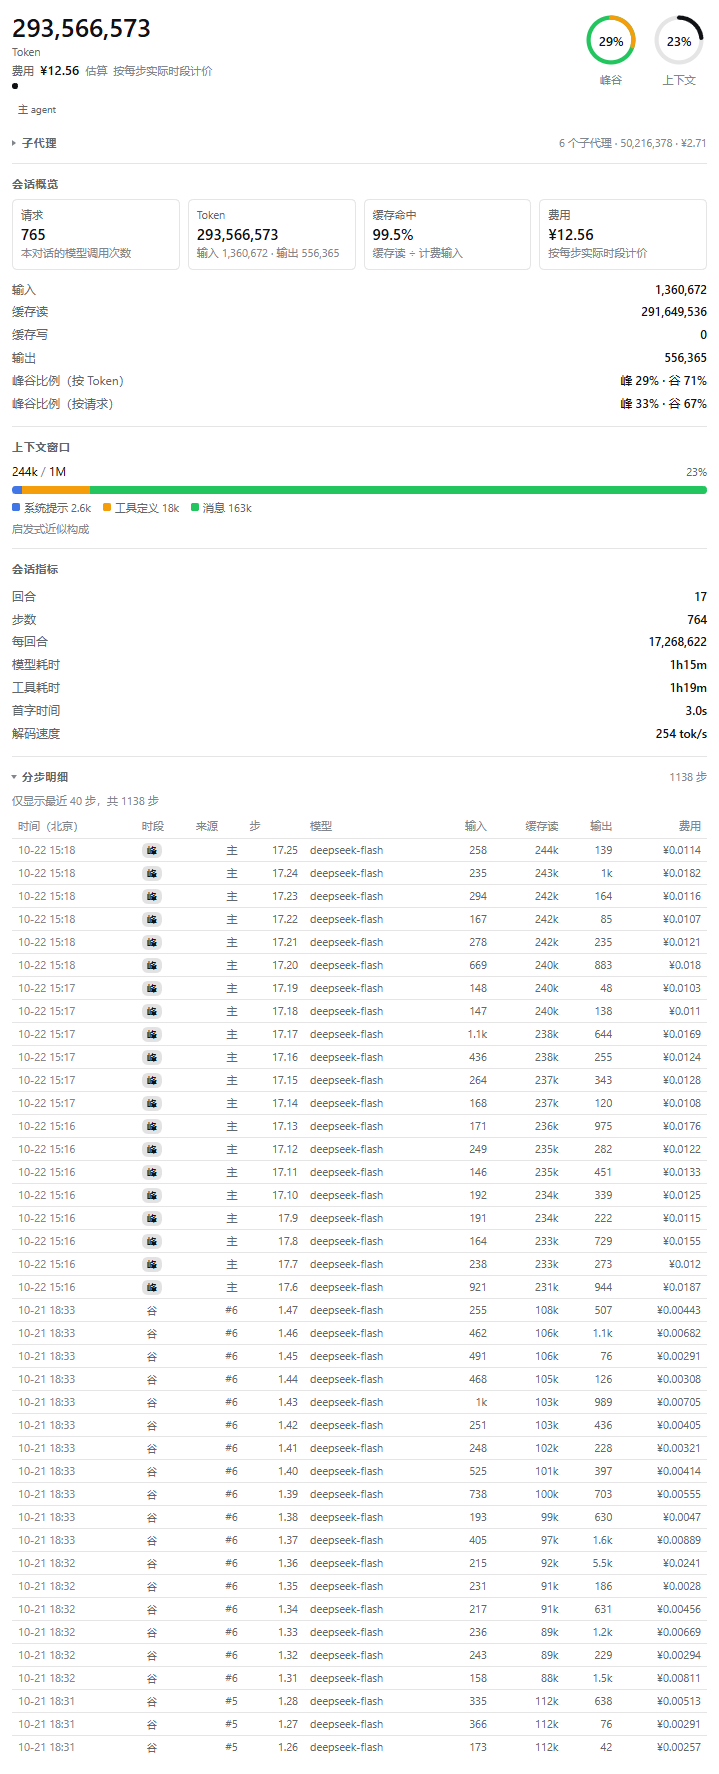
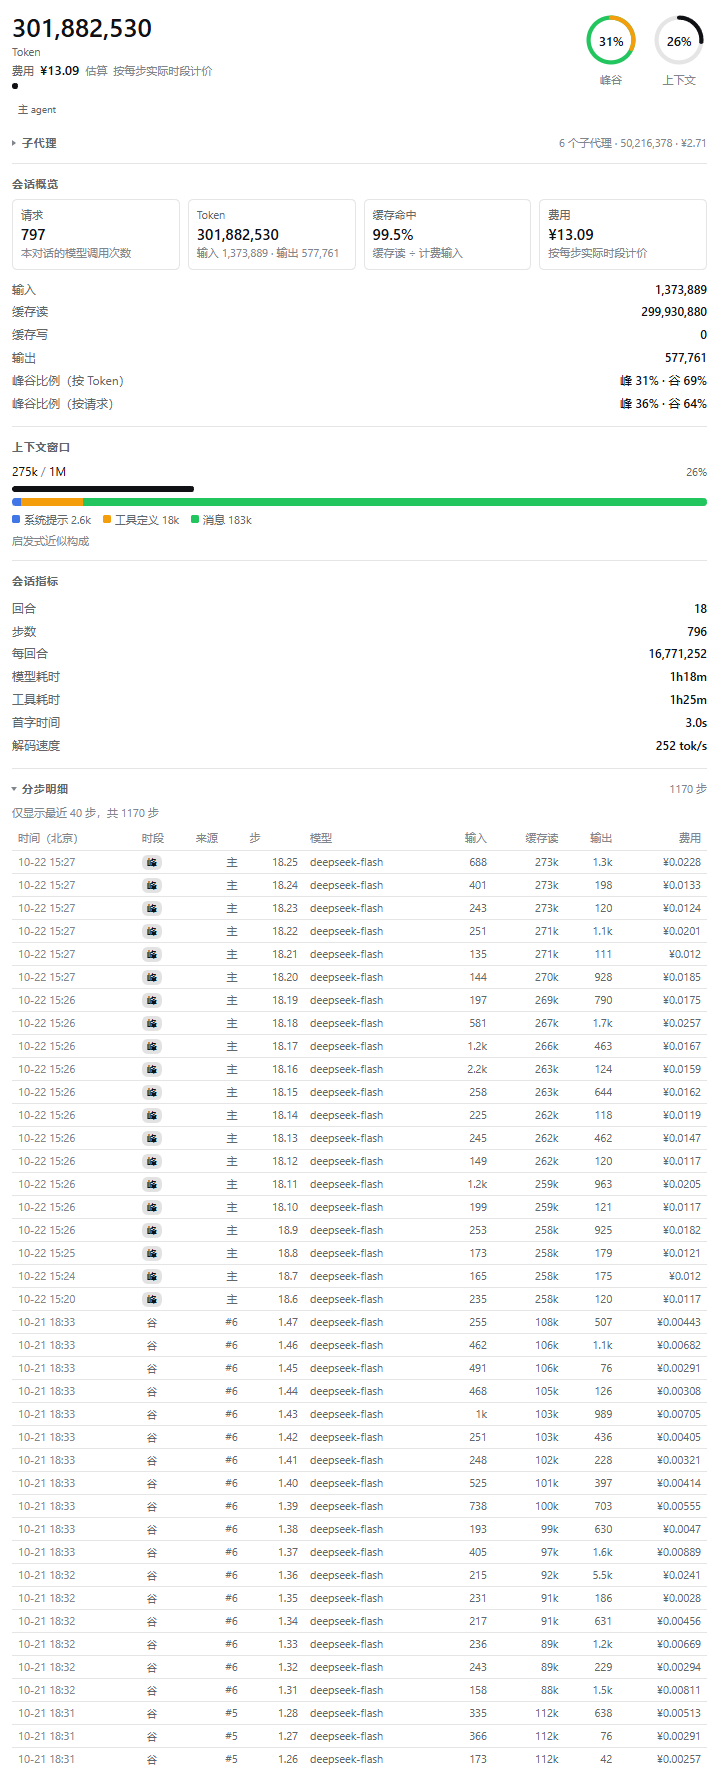
feat: context occupancy bar above the composition bar

diff --git a/dist/client.js b/dist/client.js
@@ -1,4 +1,4 @@
-/* dsh-usage-insights v0.8.4 — generated by scripts/build.mjs; do not edit. */
+/* dsh-usage-insights v0.8.5 — generated by scripts/build.mjs; do not edit. */
 window.__ModuleLoader__.load({
   id: "dsh-usage-insights",
   factory(require) {
@@ -1320,6 +1320,20 @@ var css2 = `
   overflow-wrap: anywhere;
 }
 
+.dsu-progress {
+  width: 100%;
+  height: 6px;
+  overflow: hidden;
+  border-radius: 999px;
+  background: var(--dsw-alias-bg-layer-2);
+}
+
+.dsu-progress-fill {
+  height: 100%;
+  border-radius: 999px;
+  background: var(--dsw-alias-brand-primary);
+}
+
 .dsu-compose {
   display: flex;
   width: 100%;
@@ -1783,6 +1797,10 @@ function Row(props) {
     /* @__PURE__ */ (0, import_jsx_runtime2.jsx)("span", { className: "dsu-row-value", children: props.value })
   ] });
 }
+function ProgressBar(props) {
+  const ratio = props.ratio === null ? 0 : Math.min(1, Math.max(0, props.ratio));
+  return /* @__PURE__ */ (0, import_jsx_runtime2.jsx)("div", { className: "dsu-progress", role: "img", "aria-label": formatPercent(ratio), children: /* @__PURE__ */ (0, import_jsx_runtime2.jsx)("div", { className: "dsu-progress-fill", style: { width: `${ratio * 100}%` } }) });
+}
 function CompositionBar(props) {
   const description = props.segments.map((segment) => `${segment.label} ${formatTokens(segment.tokens)}`).join(" \xB7 ");
   return /* @__PURE__ */ (0, import_jsx_runtime2.jsxs)(import_jsx_runtime2.Fragment, { children: [
@@ -2180,6 +2198,7 @@ function SessionPanel(props) {
         ] }),
         /* @__PURE__ */ (0, import_jsx_runtime4.jsx)("span", { className: "dsu-ctx-pct", children: contextLabel })
       ] }),
+      context.usedTokens !== null && /* @__PURE__ */ (0, import_jsx_runtime4.jsx)(ProgressBar, { ratio: context.ratio }),
       breakdown !== null && breakdownTotal > 0 && /* @__PURE__ */ (0, import_jsx_runtime4.jsx)(CompositionBar, { segments: [
         { part: "system", label: t("context.breakdown.system"), tokens: breakdown.systemTokens },
         { part: "tools", label: t("context.breakdown.tools"), tokens: breakdown.toolsTokens },

diff --git a/src/client/SessionPanel.tsx b/src/client/SessionPanel.tsx
@@ -18,7 +18,8 @@ import {
 } from '../lib/format'
 import { peakTokenShare } from '../lib/band-share.ts'
 import {
-  bandShareText, ChildAgentsTable, CompositionBar, InlineMessage, Ring, Row, Section, Stat, StepTable, StyleTag,
+  bandShareText, ChildAgentsTable, CompositionBar, InlineMessage, ProgressBar, Ring, Row, Section, Stat,
+  StepTable, StyleTag,
 } from './components'
 
 /**
@@ -202,6 +203,7 @@ export function SessionPanel(props: SessionPanelProps): JSX.Element {
                   <span className="dsu-ctx-pct">{contextLabel}</span>
                 </div>
               )}
+              {context.usedTokens !== null && <ProgressBar ratio={context.ratio} />}
               {breakdown !== null && breakdownTotal > 0 && (
                 <CompositionBar segments={[
                   { part: 'system', label: t('context.breakdown.system'), tokens: breakdown.systemTokens },

diff --git a/src/client/components.tsx b/src/client/components.tsx
@@ -77,6 +77,21 @@ export function Row(props: { label: string; value: ReactNode; hint?: string }): 
 }
 
 /**
+ * Single-value progress bar.
+ *
+ * @param props - ratio in [0, 1], or null for an unknown value.
+ * @returns the rendered bar.
+ */
+export function ProgressBar(props: { ratio: number | null }): JSX.Element {
+  const ratio = props.ratio === null ? 0 : Math.min(1, Math.max(0, props.ratio))
+  return (
+    <div className="dsu-progress" role="img" aria-label={formatPercent(ratio)}>
+      <div className="dsu-progress-fill" style={{ width: `${ratio * 100}%` }} />
+    </div>
+  )
+}
+
+/**
  * One segment of the context composition bar.
  */
 export interface CompositionSegment {

diff --git a/src/client/styles.ts b/src/client/styles.ts
@@ -322,6 +322,20 @@ export const css = `
   overflow-wrap: anywhere;
 }
 
+.dsu-progress {
+  width: 100%;
+  height: 6px;
+  overflow: hidden;
+  border-radius: 999px;
+  background: var(--dsw-alias-bg-layer-2);
+}
+
+.dsu-progress-fill {
+  height: 100%;
+  border-radius: 999px;
+  background: var(--dsw-alias-brand-primary);
+}
+
 .dsu-compose {
   display: flex;
   width: 100%;

diff --git a/README.md b/README.md
@@ -16,7 +16,7 @@
 
 - **会话概览**：请求数、Token 总量、输入 / 缓存读 / 缓存写 / 输出四桶、缓存命中率、费用，以及峰谷比例（按 Token 与按请求各一行）。
 - **精确 Token 数值**：除上下文窗口和分步明细外，所有 Token 数值都按千分位显示精确整数（如 `275,123,456`），不使用 `275M` 这类高位缩写。
-- **上下文窗口**：第一行显示已用 / 容量与占用百分比，第二行用三色堆叠条展示系统提示、工具定义、消息三段的近似构成，条下是带颜色的图例与各段数值。
+- **上下文窗口**：第一行显示已用 / 容量与占用百分比，第二行是一条按占用比例填充的横条，第三行用三色堆叠条展示系统提示、工具定义、消息三段的近似构成，条下是带颜色的图例与各段数值。
 - **峰谷圈图**：上下文圈图左侧另有一个圈图，绿色轨道表示空闲、橙色弧线表示高峰，中心显示高峰占比（按 Token）。
 - **会话指标**：回合数、步数、每回合 Token、模型耗时、工具耗时、首字时间、解码速度。
 - **分步明细**（默认折叠，点击展开）：把主 agent 与直接子代理的请求合并成一条时间线（最近 40 条，标注总步数），每行包含北京时间、峰谷时段、来源（`主` 或子代理编号 `#1`）、`回合.步`、模型、输入 / 缓存读 / 输出、该步费用。

diff --git a/README.EN.md b/README.EN.md
@@ -24,8 +24,9 @@ The plugin adds two right-Sidebar pages.
   value is an exact integer with thousands separators (for example `275,123,456`) instead of
   a compact `275M` abbreviation.
 - **Context window**: the first row shows used / capacity and the occupancy percentage; the
-  second row is a three-colour stacked bar of the approximate system prompt / tool definitions
-  / messages composition, followed by a colour legend with each part's figure.
+  second row is a bar filled to that occupancy; the third row is a three-colour stacked bar of
+  the approximate system prompt / tool definitions / messages composition, followed by a colour
+  legend with each part's figure.
 - **Peak/off-peak ring**: a second ring left of the context ring draws the peak share as an
   amber arc over a green off-peak track, with the peak percentage in the center (by tokens).
 - **Session metrics**: turns, steps, tokens per turn, model time, tool time, first-token
